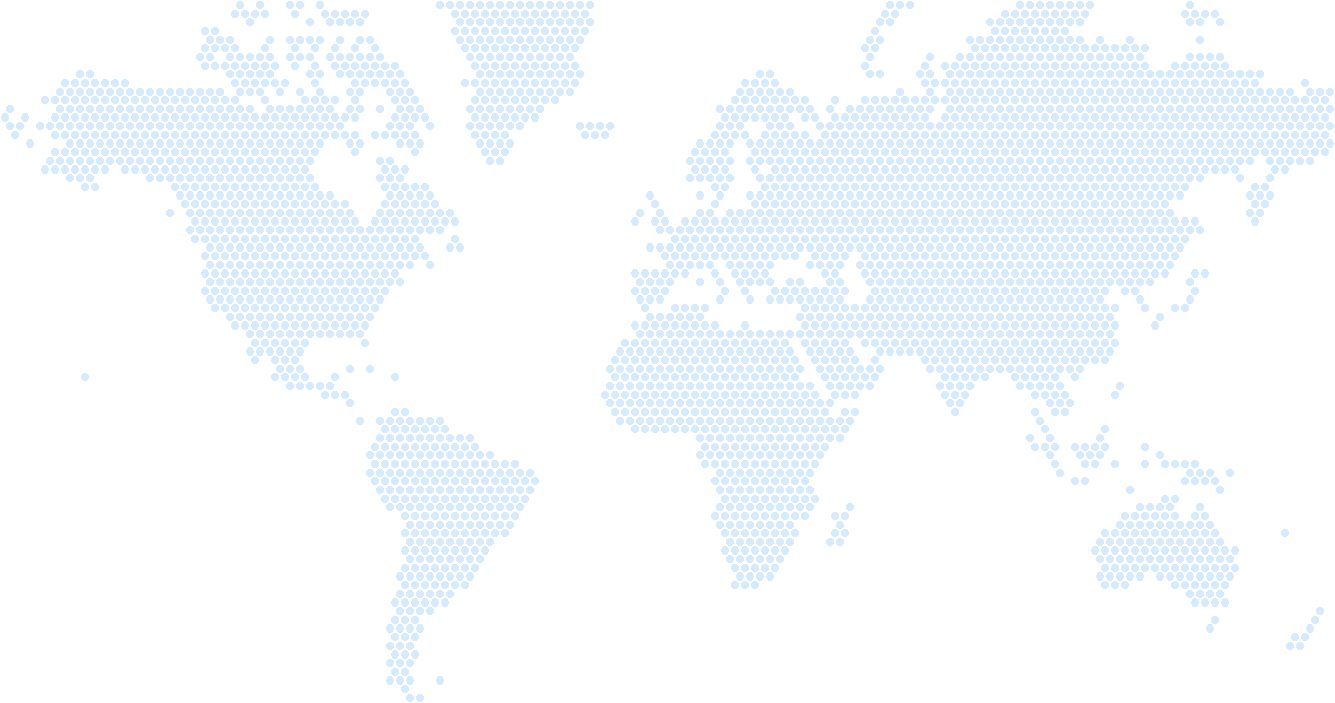
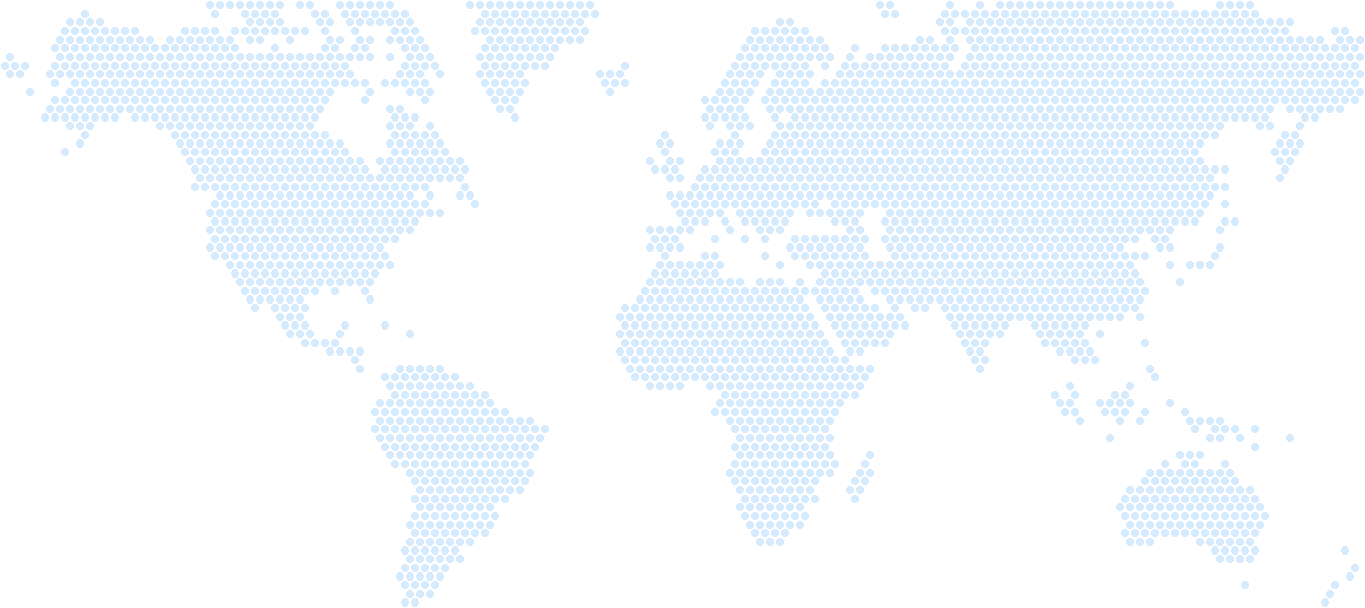
Talks: adding the mapunzip -o ~/Downloads/website-update.zip

diff --git a/_sass/layout/_cosmos.scss b/_sass/layout/_cosmos.scss
@@ -604,13 +604,20 @@ h2 + .pub { border-top: 0; padding-top: 0; }
 
 /* ---------- Talks map ---------- */
 
+.archive .talk-map + h2 { margin-top: 1.1em; }
+.archive .stats + .talk-map { margin-top: 0.9rem; }
+/* On the Talks page the strip sits tighter under the title. */
+.archive .page__title + .stats,
+.archive .page__title ~ .stats:has(+ .talk-map) { margin-top: -0.6rem; padding: 0.75rem 0; }
+
 .talk-map {
-  max-width: 720px;
-  margin: 1.25rem 0 0.25rem;
+  margin: 1.1rem 0 0;
 
   &__canvas {
     position: relative;
-    aspect-ratio: 1335 / 703;
+    max-width: 620px;
+    margin: 0 auto;
+    aspect-ratio: 1365 / 608;
 
     img { display: block; width: 100%; height: 100%; }
   }
@@ -635,10 +642,11 @@ h2 + .pub { border-top: 0; padding-top: 0; }
   figcaption {
     display: flex;
     flex-wrap: wrap;
-    gap: 0.35rem 1.1rem;
-    margin-top: 0.9rem;
+    justify-content: center;
+    gap: 0.3rem 1rem;
+    margin-top: 0.6rem;
     font-family: $text;
-    font-size: 0.88rem;
+    font-size: 0.85rem;
     color: var(--c-muted);
 
     b { color: var(--c-hl); font-weight: 600; }

diff --git a/_pages/talks.html b/_pages/talks.html
@@ -30,7 +30,7 @@ author_profile: true
 
 <figure class="talk-map" aria-labelledby="talk-map-caption">
   <div class="talk-map__canvas">
-    <img src="{{ base_path }}/files/talks-map.webp" width="1335" height="703" alt="" decoding="async">
+    <img src="{{ base_path }}/files/talks-map.webp" width="{{ site.data.talk_map.image.width }}" height="{{ site.data.talk_map.image.height }}" alt="" decoding="async">
     {% comment %} One star per place: the talk's city if known on the map, otherwise its country. {% endcomment %}
     {% assign place_str = "" %}
     {% for t in site.talks %}
